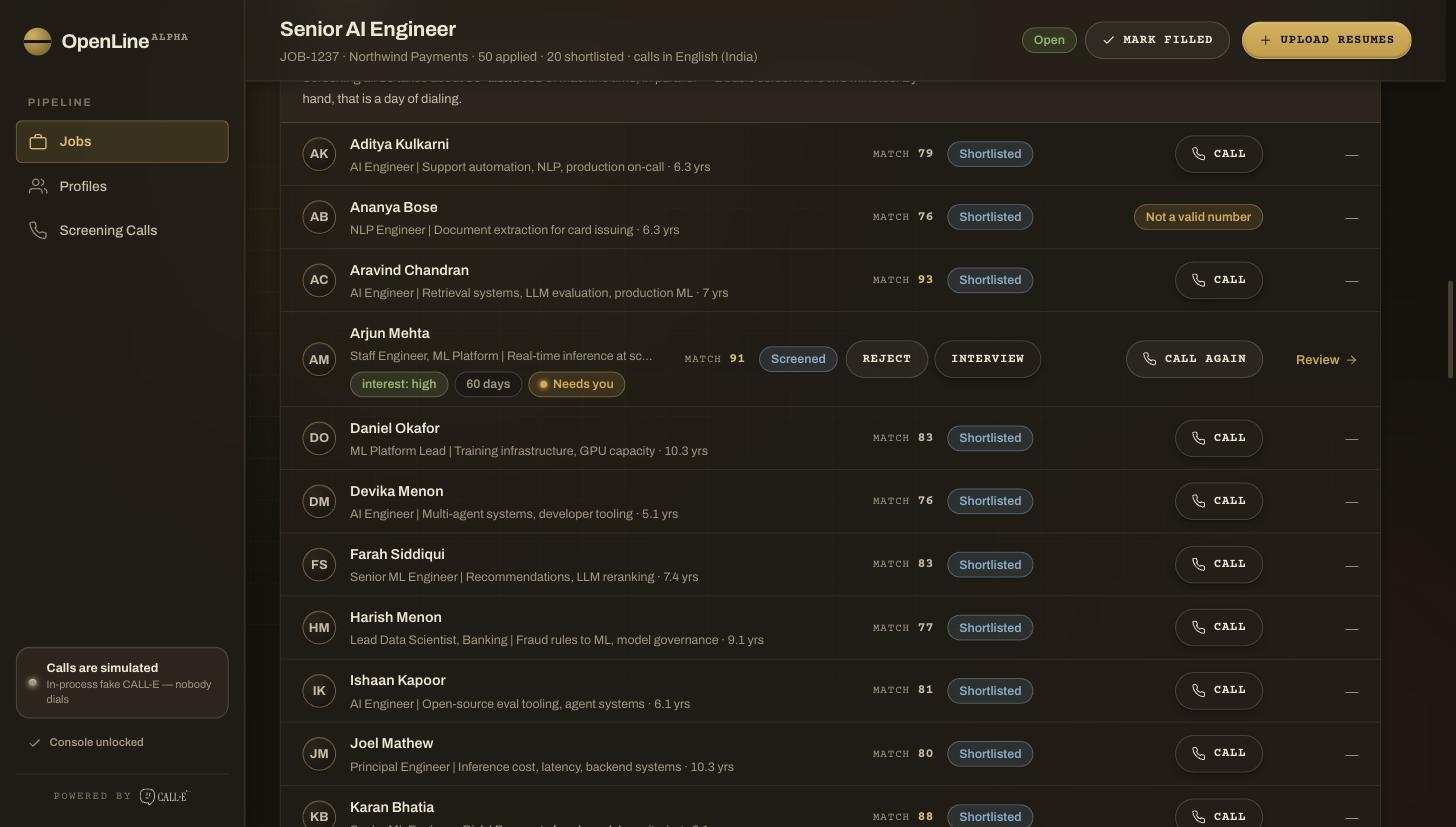
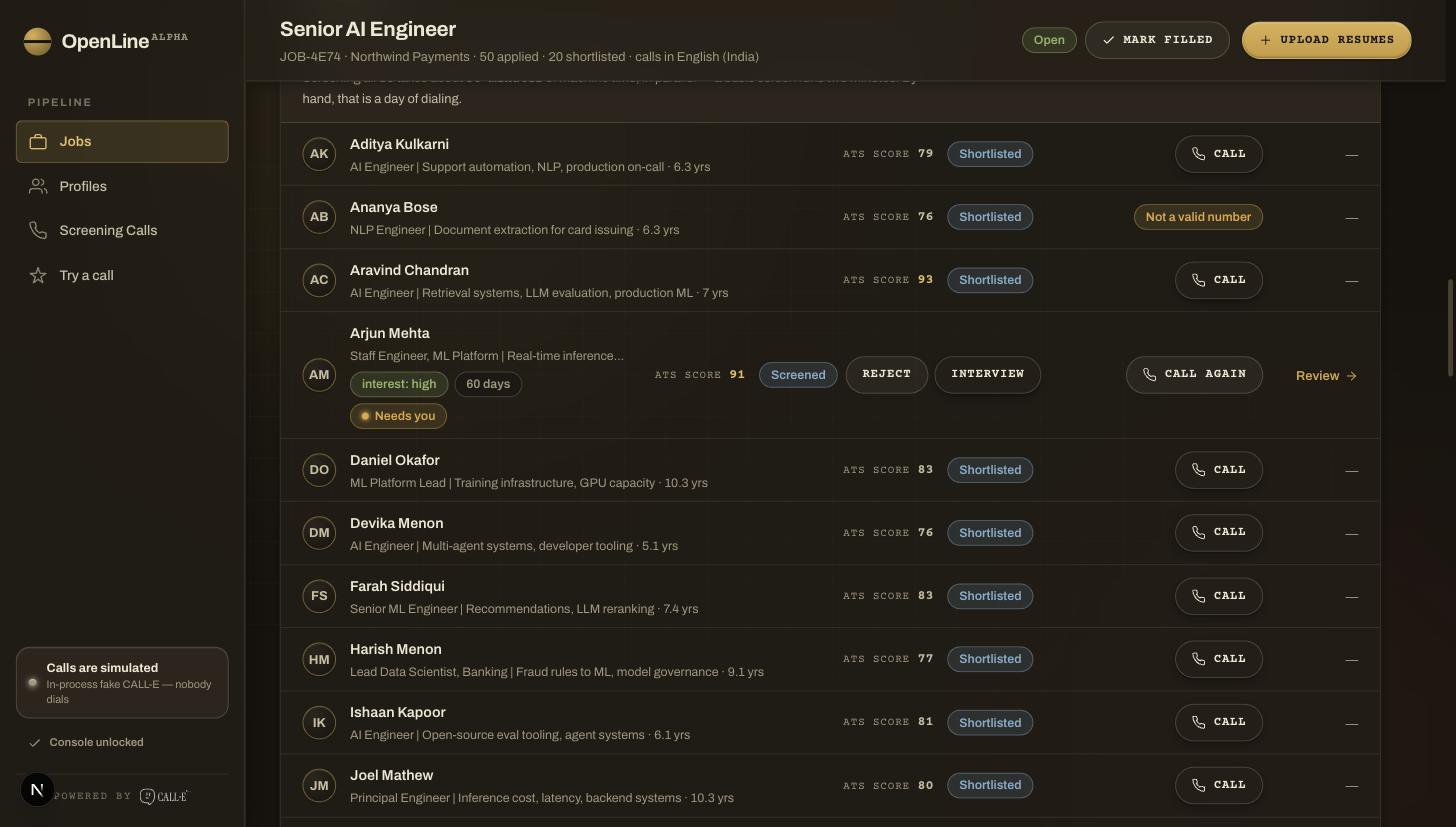
feat(try): say plainly that Try a call is a quick test, and point at the real workflow
A judge who only sees Try a call would think the product is a phone form. The page now leads with a notice that it keeps nothing and that the workflow starts from a job: upload a resume, it is scored and shortlisted, call from the shortlist, decide from the saved transcript. README screenshots show the ATS score label.

diff --git a/app/(app)/try/page.tsx b/app/(app)/try/page.tsx
@@ -1,4 +1,7 @@
+import Link from "next/link";
 import TopBar, { Page, Panel } from "@/components/layout/TopBar";
+import Button from "@/components/ui/Button";
+import Icon from "@/components/ui/Icon";
 import TryCall from "@/components/screening/TryCall";
 import { resolveCalleMode } from "@/lib/calle/port";
 import { listJobs } from "@/lib/db/queries";
@@ -48,7 +51,40 @@ export default async function TryPage() {
             </p>
           </Panel>
         ) : (
-          <TryCall jobs={jobs} simulated={mode === "fake"} />
+          <div style={{ display: "grid", gap: 16 }}>
+            {/* Said first and said big: a judge who only ever sees this page
+                would otherwise think the product is a phone form. */}
+            <Panel>
+              <div style={{ display: "flex", gap: 14, alignItems: "flex-start" }}>
+                <Icon
+                  name="alert"
+                  size={22}
+                  style={{ color: "var(--amber)", flexShrink: 0, marginTop: 2 }}
+                />
+                <div style={{ display: "grid", gap: 8, maxWidth: 680 }}>
+                  <p style={{ fontSize: 17, fontWeight: 700, lineHeight: 1.3 }}>
+                    This is a quick test call, not the recruiting workflow.
+                  </p>
+                  <p style={{ fontSize: 14, color: "var(--ink-2)", lineHeight: 1.6 }}>
+                    It rings one number with the real script so you can hear the agent, and
+                    it keeps nothing. The real workflow starts from a job: upload a
+                    candidate&apos;s resume PDF, OpenLine scores it and shortlists it, you
+                    press Call on the shortlist, and the transcript and answers are saved
+                    for you to decide Interview or Reject.
+                  </p>
+                  <div style={{ marginTop: 4 }}>
+                    <Link href={jobs.length === 1 ? `/jobs/${jobs[0].id}` : "/jobs"}>
+                      <Button size="sm" variant="soft">
+                        {jobs.length === 1 ? `Upload a resume to ${jobs[0].title}` : "Go to jobs"}
+                        <Icon name="arrow-right" size={14} />
+                      </Button>
+                    </Link>
+                  </div>
+                </div>
+              </div>
+            </Panel>
+            <TryCall jobs={jobs} simulated={mode === "fake"} />
+          </div>
         )}
       </Page>
     </>

diff --git a/README.md b/README.md
@@ -28,7 +28,7 @@ instructions of the Devpost submission**. It is not in this repository.
 **https://openline-calle.vercel.app**, then **Try a call** in the sidebar.
 
 1. Enter the operator token when the console asks for it.
-2. **Try a call.** Type your name and your phone number with its country code,
+2. **Try a call**, the quick test. Type your first name and your phone number with its country code,
    pick a language, tick the box, press **Call**, and confirm. Your phone rings
    within seconds. The agent says it is an AI assistant calling about the role,
    asks whether it may put a few screening questions to you, asks five, and
